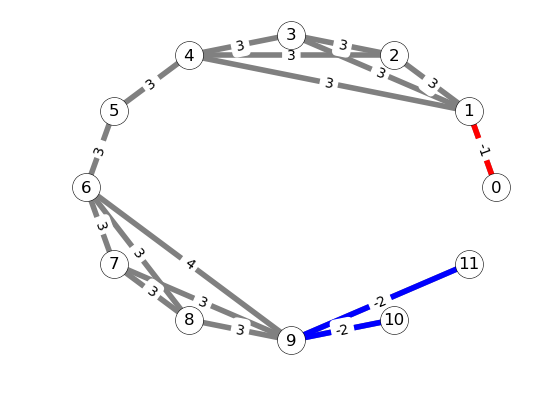
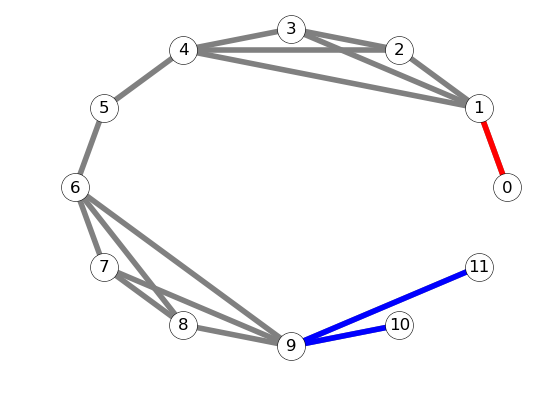
update demo figures

Changed region(s): [[0.1181, 0.0303, 0.9446, 0.9091]]

diff --git a/python_experiments/algorithm_vis/pscan_algo_vis.py b/python_experiments/algorithm_vis/pscan_algo_vis.py
@@ -21,14 +21,15 @@ def vis_input(graph, min_cn, similar_deg_lst, min_pts, graph_name):
         map(lambda pair: [pair[0] for _ in xrange(pair[1])], zip(range(len(deg_lst)), deg_lst))))
     edge_with_property_lst = filter(lambda pair: pair[0][0] < pair[0][1], zip(zip(src_u_lst, dst_v_lst), min_cn))
     print edge_with_property_lst
-    nx.draw_networkx_edge_labels(graph, pos=pos, edge_labels=dict(edge_with_property_lst))
+    # nx.draw_networkx_edge_labels(graph, pos=pos, edge_labels=dict(edge_with_property_lst))
 
     blue_edges = map(lambda pair: pair[0], filter(lambda pair: pair[1] == -2, edge_with_property_lst))
     nx.draw_networkx_edges(graph, pos=pos, edgelist=blue_edges, edge_color='b', width=4)
     red_edges = map(lambda pair: pair[0], filter(lambda pair: pair[1] == -1, edge_with_property_lst))
     nx.draw_networkx_edges(graph, pos=pos, edgelist=red_edges, edge_color='r', width=4)
 
-    alpha_lst = map(lambda similar_deg: min(float(similar_deg) / min_pts, 1), similar_deg_lst)
+    # alpha_lst = map(lambda similar_deg: min(float(similar_deg) / min_pts, 1), similar_deg_lst)
+    alpha_lst = map(lambda similar_deg: 0 if similar_deg< min_pts else 1, similar_deg_lst)
     print alpha_lst
     for idx, alpha in enumerate(alpha_lst):
         nx.draw_networkx_nodes(graph, with_labels=True, pos=pos, font_size=12, node_size=350, alpha=alpha,
